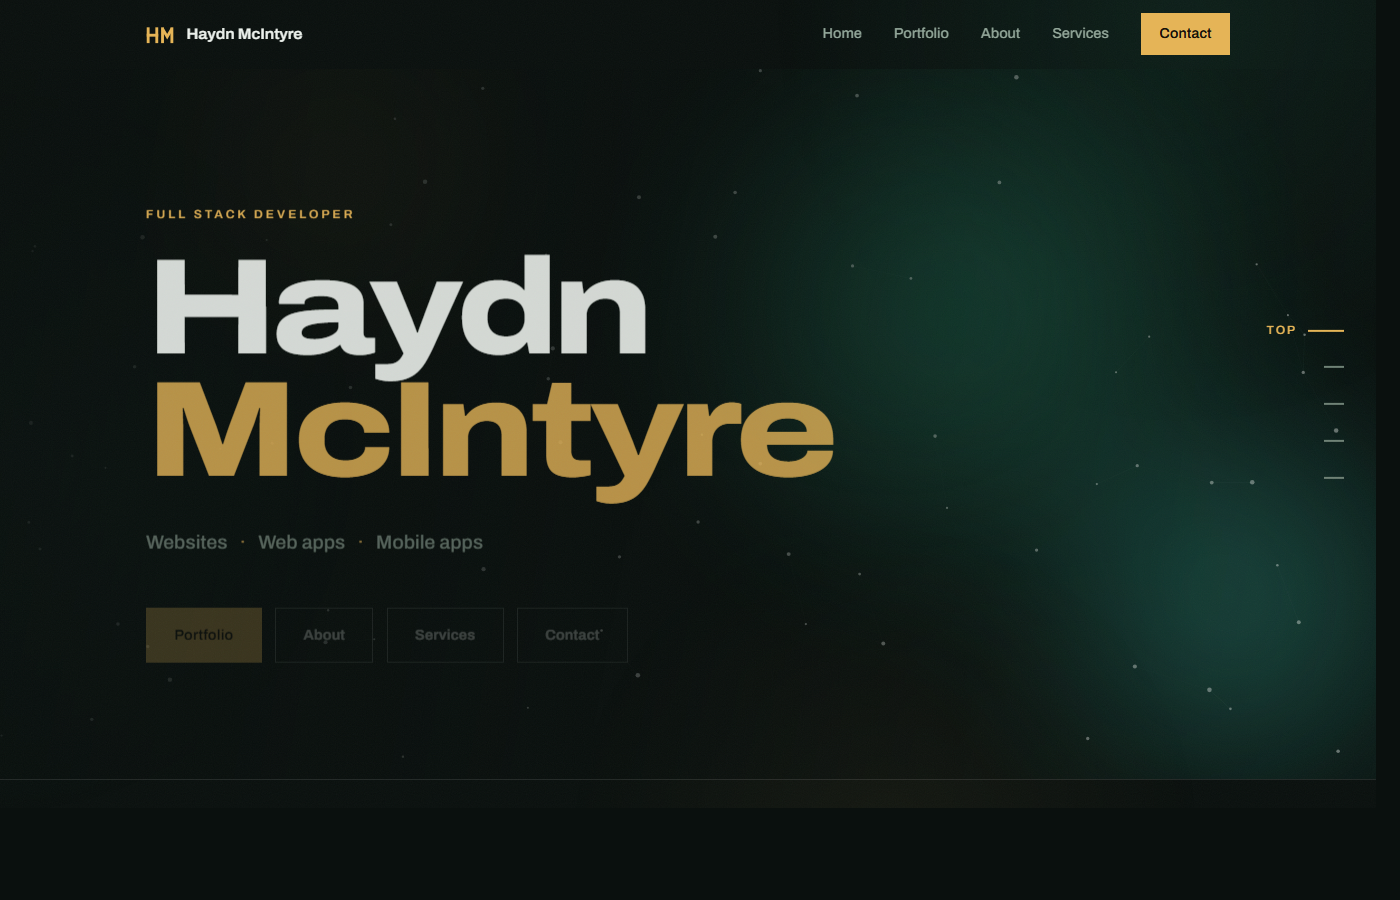
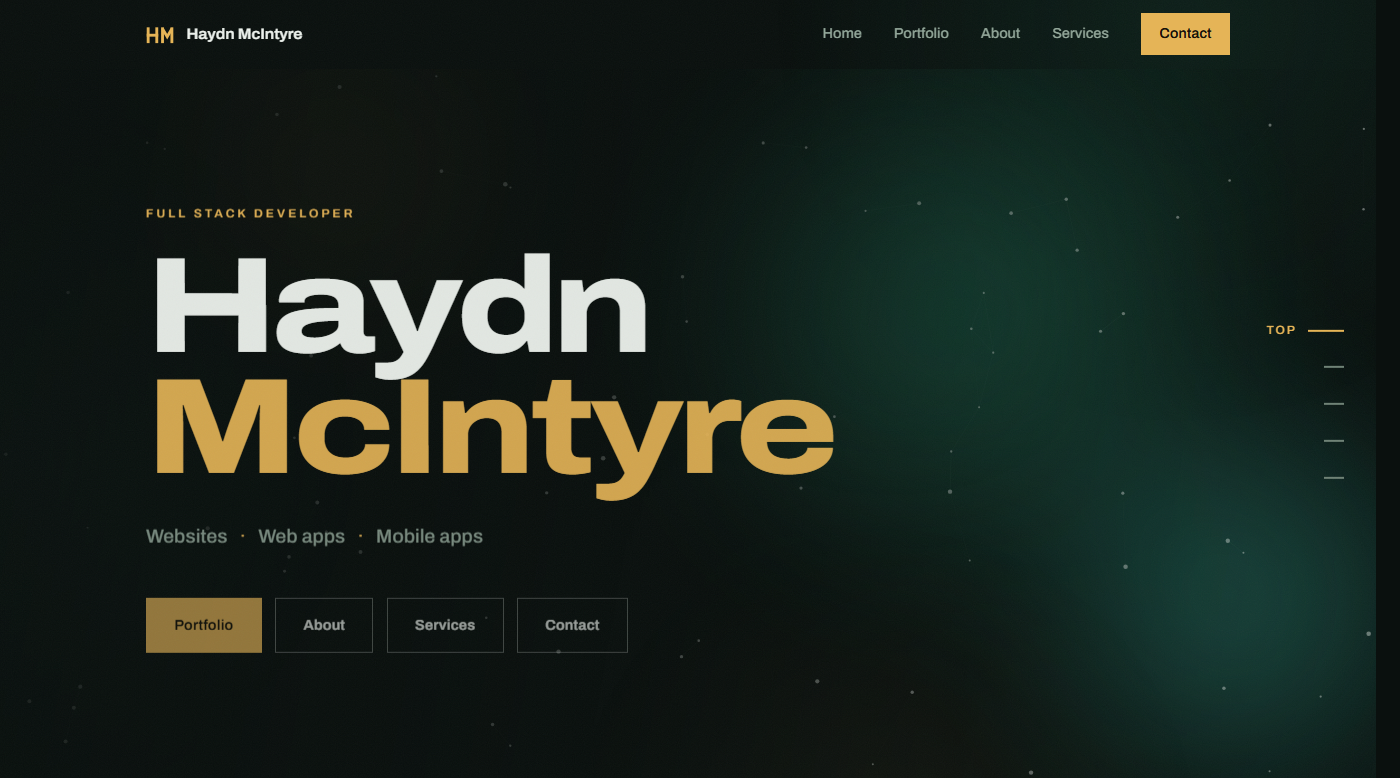
Crop site preview to the hero only

diff --git a/index.html b/index.html
@@ -111,7 +111,7 @@
 
             <div class="teaser-grid reveal">
         <a class="teaser" href="portfolio.html#websites">
-          <span class="teaser-shot"><img src="assets/work/this-site.png" alt="The home page of this website." loading="lazy" width="1400" height="900"></span>
+          <span class="teaser-shot"><img src="assets/work/this-site.png" alt="The home page of this website." loading="lazy" width="1400" height="778"></span>
           <span class="teaser-meta">Website</span>
           <span class="teaser-name">This site</span>
         </a>

diff --git a/portfolio.html b/portfolio.html
@@ -106,7 +106,7 @@
       <article class="project reveal">
         <div class="project-media">
           <button type="button" class="zoom" aria-label="View larger: this website">
-            <img src="assets/work/this-site.png" alt="The home page of this website." loading="lazy" width="1400" height="900">
+            <img src="assets/work/this-site.png" alt="The home page of this website." loading="lazy" width="1400" height="778">
           </button>
         </div>
         <div class="project-body">
